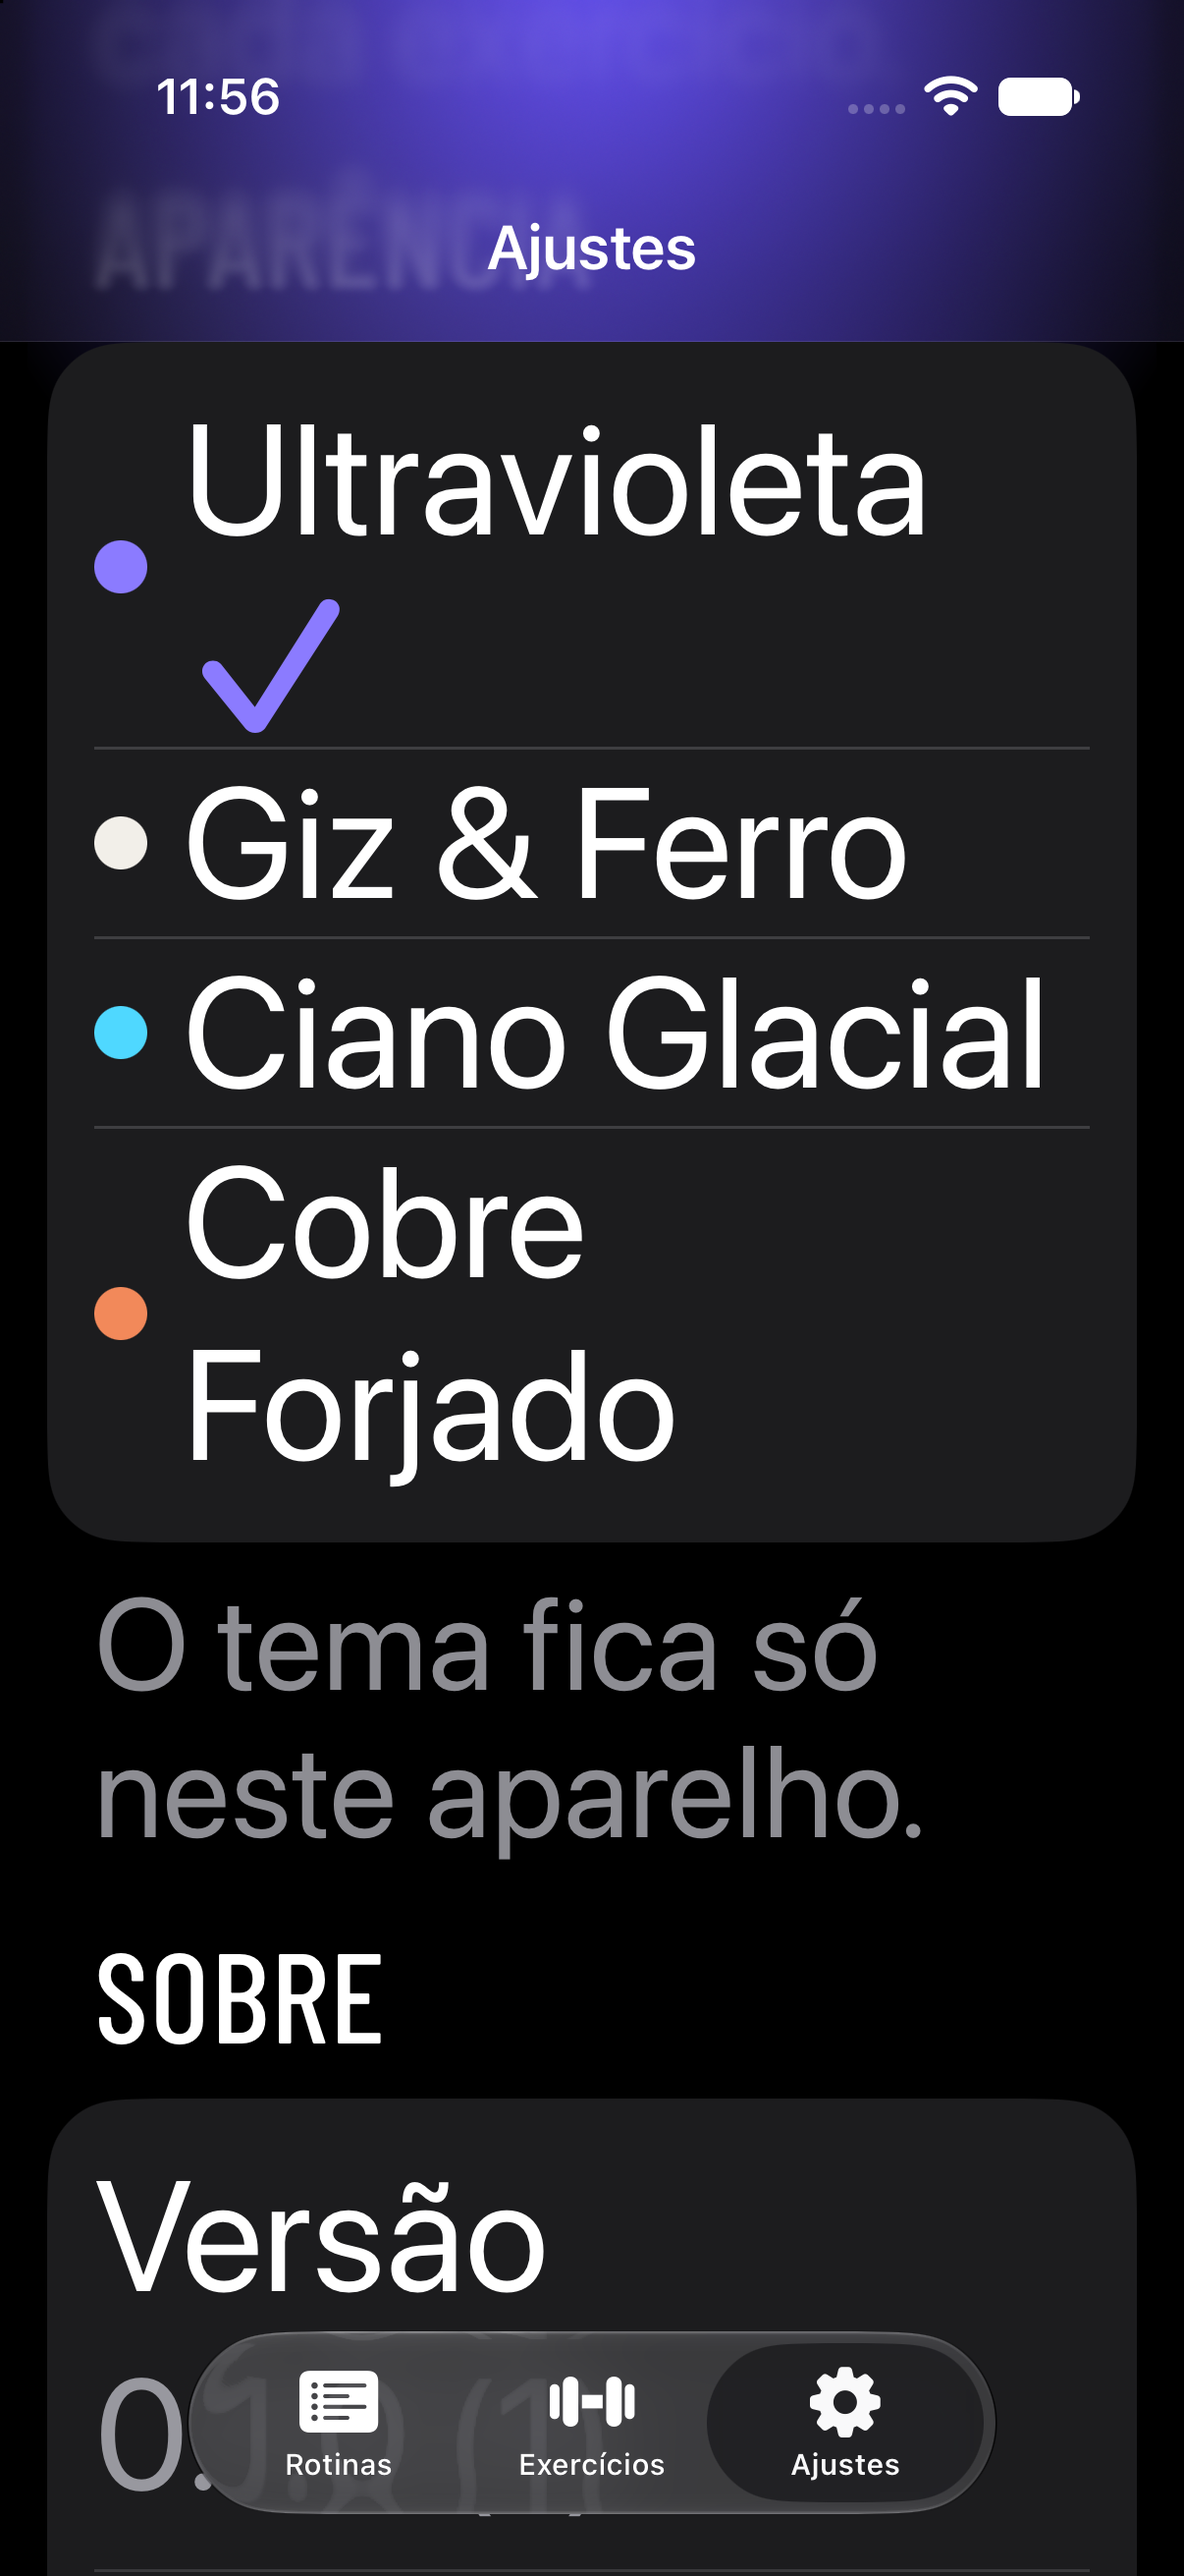
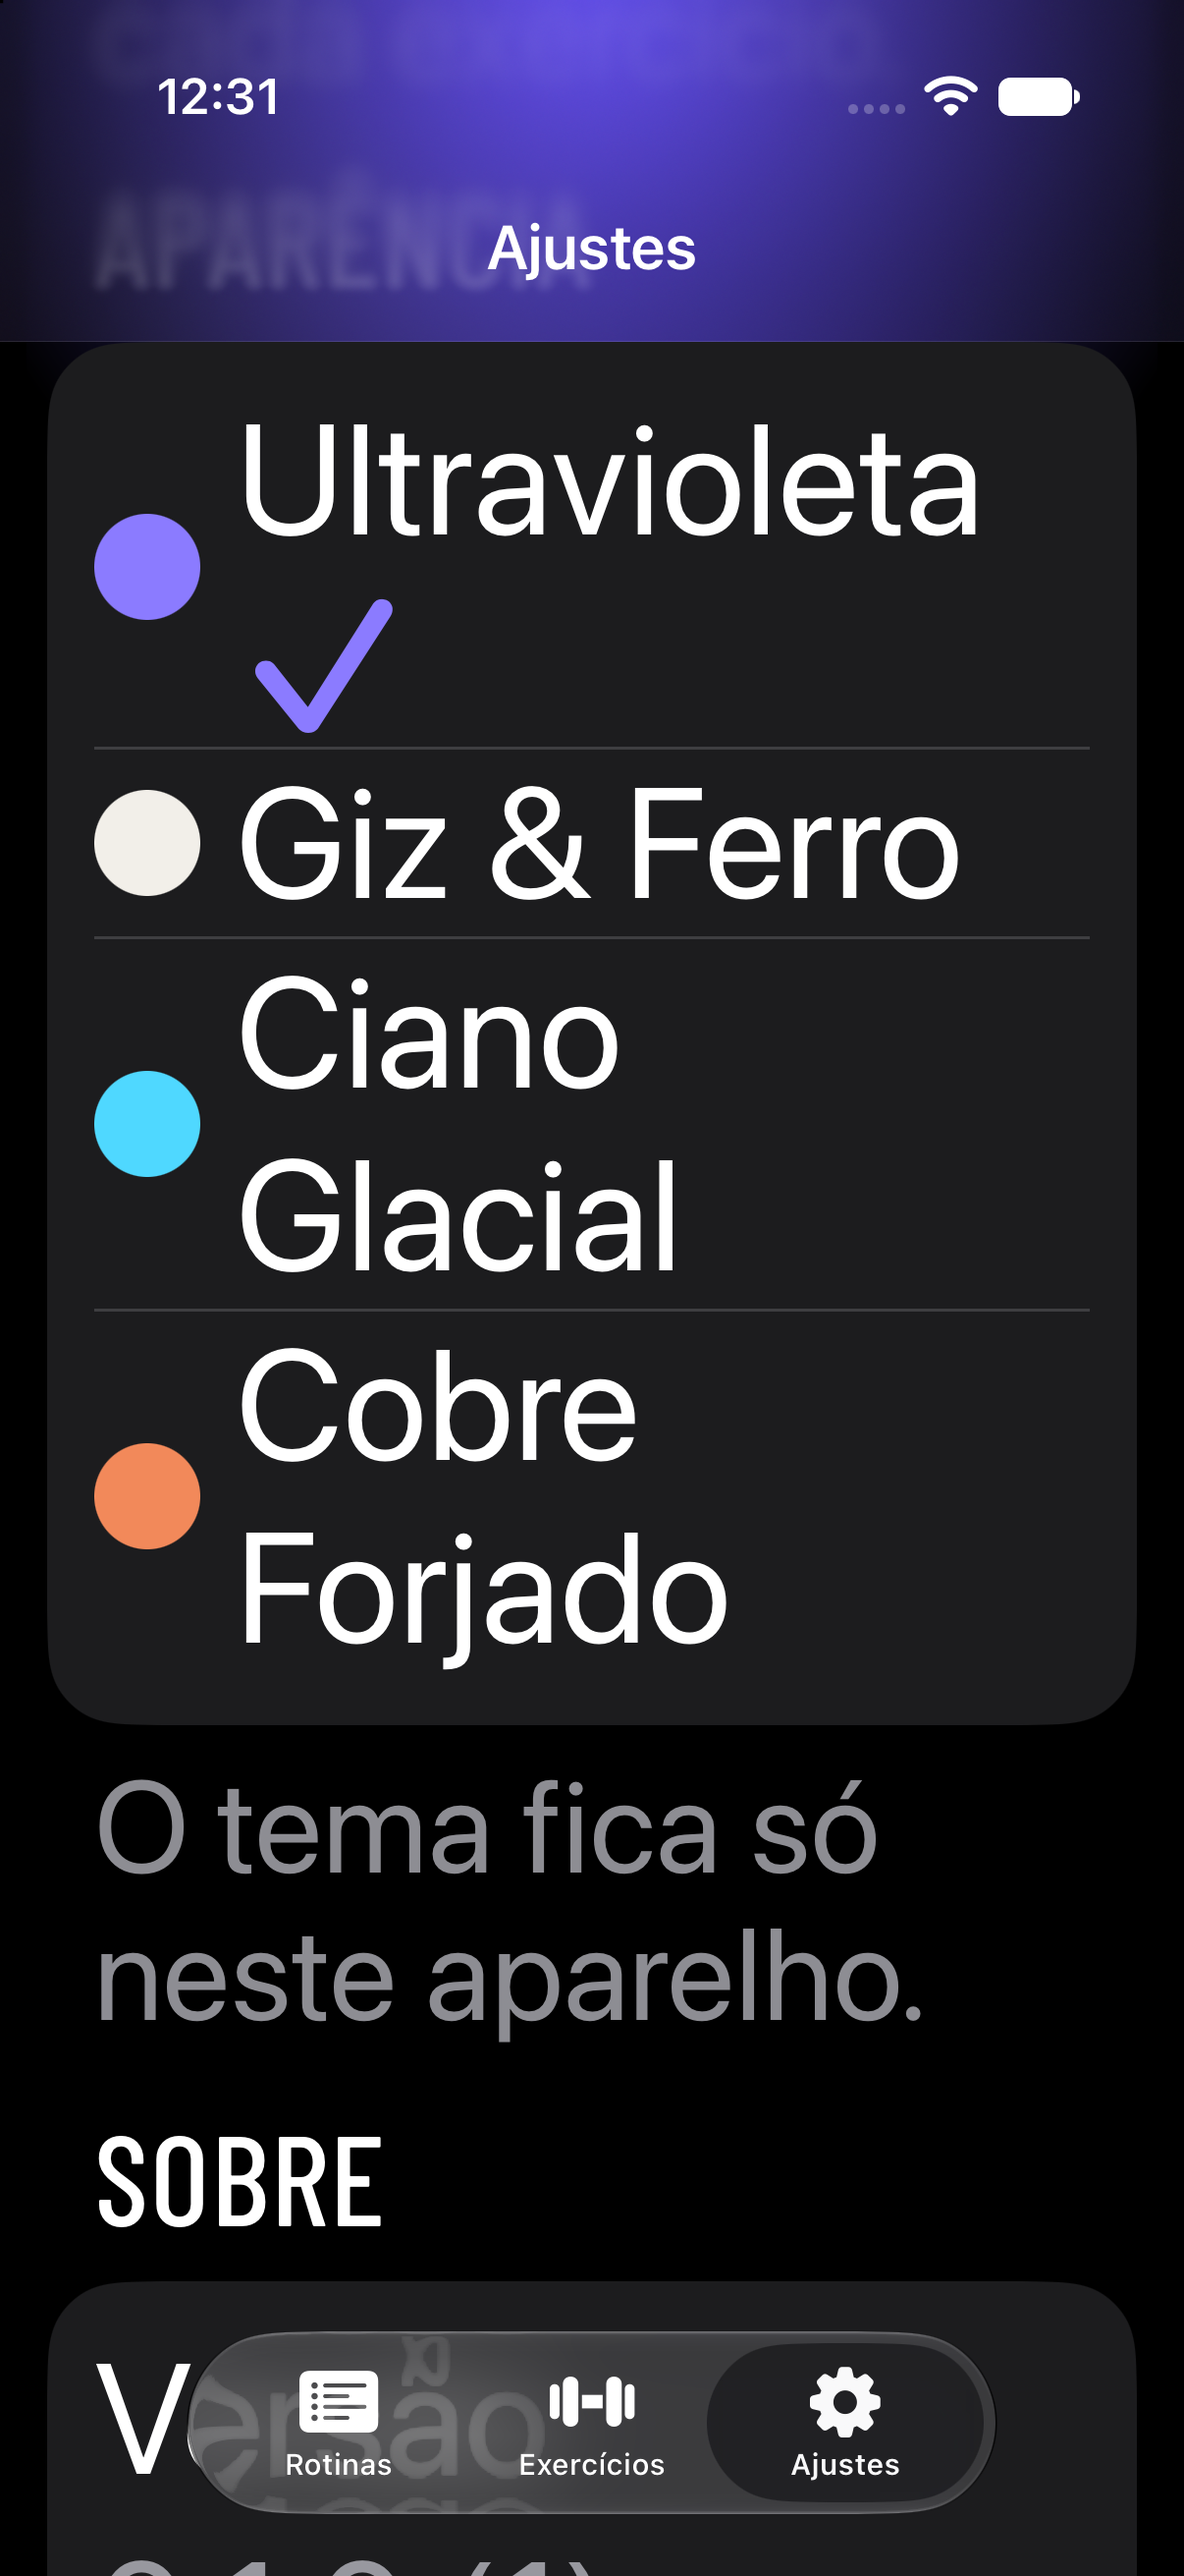
A amostra do tema, os links e os títulos das licenças

diff --git a/apple/HexGym/Settings/LicensesView.swift b/apple/HexGym/Settings/LicensesView.swift
@@ -13,6 +13,18 @@ import SwiftUI
 
 struct LicensesView: View {
   var body: some View {
+    ScrollViewReader { proxy in
+      list
+        .task {
+          // -HexGymSection opengym rola até os links do código, para o print em AX5 mostrar as setas.
+          guard SettingsLaunch.anchor == SettingsAnchor.opengym else { return }
+          try? await Task.sleep(for: .milliseconds(600))
+          proxy.scrollTo(SettingsAnchor.opengym, anchor: .top)
+        }
+    }
+  }
+
+  private var list: some View {
     List {
       Section {
         Text("HexGym is an unofficial fork of openGym, not made or endorsed by its author. Its code is public, under the same license.")
@@ -21,8 +33,9 @@ struct LicensesView: View {
         work: "openGym", license: "AGPL-3.0-or-later", holder: "© 2026 Duarte Santos",
         purpose: "The rules of the app: exercises, routines and progression.", text: .bundle("LICENSE-openGym")
       ) {
-        Link("openGym source code", destination: URL(string: "https://github.com/DuarteSantos8/openGym")!)
-        Link("HexGym source code", destination: URL(string: "https://github.com/lipedesign/HexGym")!)
+        SourceLink("openGym source code", destination: URL(string: "https://github.com/DuarteSantos8/openGym")!)
+          .id(SettingsAnchor.opengym)
+        SourceLink("HexGym source code", destination: URL(string: "https://github.com/lipedesign/HexGym")!)
       }
       LicenseSection(
         work: "Barlow Condensed", license: "SIL Open Font License 1.1", holder: "© 2017 The Barlow Project Authors",
@@ -54,23 +67,69 @@ struct LicenseText: Hashable {
     }
   }
 
-  // O texto com os parágrafos juntados: os arquivos quebram a linha em 72 colunas, e na largura do
-  // iPhone, com Dynamic Type, essas quebras cortariam as frases no meio. Uma linha em branco separa
-  // os parágrafos, e uma linha só de traços fica sozinha.
+  // Os parágrafos do arquivo (LicenseParagraphs), ou nenhum, se ele não abriu.
   func paragraphs() -> [String] {
     guard let url, let raw = try? String(contentsOf: url, encoding: .utf8) else { return [] }
+    return LicenseParagraphs.split(raw)
+  }
+}
+
+// O texto de uma licença em parágrafos: os arquivos quebram a linha em 72 colunas, e na largura do
+// iPhone, com Dynamic Type, essas quebras cortariam as frases no meio. As linhas de um bloco se
+// juntam num parágrafo; uma linha em branco ou só de traços separa os blocos; e o título de uma seção
+// (o "PREAMBLE" e o "TERMINATION" da OFL, o "TERMS AND CONDITIONS" da AGPL) fica num parágrafo
+// próprio, em vez de grudar no texto dele. Testado no SettingsRowsTests.
+enum LicenseParagraphs {
+  static func split(_ raw: String) -> [String] {
     var result: [String] = [], current: [String] = []
     func close() {
       if !current.isEmpty { result.append(current.joined(separator: " ")) }
       current = []
     }
     for line in raw.components(separatedBy: .newlines).map({ $0.trimmingCharacters(in: .whitespaces) }) {
-      if line.isEmpty { close(); continue }
-      if line.allSatisfy({ $0 == "-" || $0 == "=" }) { close(); continue }
+      if line.isEmpty || line.allSatisfy({ $0 == "-" || $0 == "=" }) { close(); continue }
+      if current.isEmpty, isHeading(line) {
+        result.append(line)
+        continue
+      }
       current.append(line)
     }
     close()
     return result
+  }
+
+  // Um título: a primeira linha de um bloco, com letras e nenhuma minúscula, curta e sem a vírgula ou
+  // o ponto de uma frase. Os avisos de garantia, também em maiúsculas, começam com linhas longas que
+  // continuam na seguinte, e ficam inteiros.
+  static func isHeading(_ line: String) -> Bool {
+    line.count <= 40 && line.contains(where: \.isLetter) && !line.contains(where: \.isLowercase)
+      && !line.hasSuffix(",") && !line.hasSuffix(".")
+  }
+}
+
+// Um link para fora do app, com a seta "arrow.up.right" à direita, no lugar e no cinza da seta de
+// navegação da List, para não parecer texto parado. O texto segue o tint branco da raiz.
+private struct SourceLink: View {
+  let title: LocalizedStringKey
+  let destination: URL
+
+  init(_ title: LocalizedStringKey, destination: URL) {
+    self.title = title
+    self.destination = destination
+  }
+
+  var body: some View {
+    Link(destination: destination) {
+      HStack(spacing: HexSpacing.s) {
+        Text(title)
+        Spacer(minLength: 0)
+        Image(systemName: "arrow.up.right")
+          .font(.body.weight(.semibold))
+          .imageScale(.small)
+          .foregroundStyle(.tertiary)
+          .accessibilityHidden(true)
+      }
+    }
   }
 }
 

diff --git a/apple/HexGym/Settings/SettingsView.swift b/apple/HexGym/Settings/SettingsView.swift
@@ -205,6 +205,8 @@ struct SettingsView: View {
 enum SettingsAnchor {
   static let workout = "workout", effort = "effort", week = "week", body = "body", appearance = "appearance"
   static let about = "about"
+  // Nas Licenças: os links do código do openGym e do HexGym.
+  static let opengym = "opengym"
 }
 
 // Os argumentos de início dos Ajustes, como os da galeria (GalleryLaunch), do domínio dos argumentos
@@ -213,7 +215,8 @@ enum SettingsAnchor {
 //   -HexGymSection appearance      rola até uma seção (SettingsAnchor); a galeria lê a mesma chave
 //   -HexGymSettingsScript demo     o roteiro do vídeo do PR: troca a unidade e o tema
 //   -HexGymSettingsScript flush    troca o corpo 3,8 s depois de abrir, para conferir o flush()
-//   -HexGymSettingsOpen licenses   abre as Licenças; musclemap abre o texto da licença do MuscleMap
+//   -HexGymSettingsOpen licenses   abre as Licenças; musclemap e barlow abrem o texto de uma licença
+//   -HexGymSection opengym         nas Licenças, rola até os links do código do openGym e do HexGym
 enum SettingsLaunch {
   private static var defaults: UserDefaults { .standard }
 
@@ -231,6 +234,9 @@ enum SettingsLaunch {
     case "musclemap":
       path.append(SettingsRoute.licenses)
       path.append(LicenseText(title: "MuscleMap", source: .bundle("LICENSE-MuscleMap")))
+    case "barlow":
+      path.append(SettingsRoute.licenses)
+      path.append(LicenseText(title: "Barlow Condensed", source: .url(HexFonts.licenseURL)))
     default:
       break
     }
@@ -288,6 +294,10 @@ private struct ThemeChoiceRow: View {
   @Environment(\.locale) private var locale
   @Environment(\.colorSchemeContrast) private var contrast
   @Environment(\.hexPalette) private var palette
+  // A amostra acompanha o texto no Dynamic Type, de 18 pt até 36 pt (no AX5, sem o teto, passaria de
+  // 50 pt e tomaria o lugar do nome).
+  @ScaledMetric(relativeTo: .body) private var scaledSwatch: CGFloat = 18
+  private var swatchSize: CGFloat { min(scaledSwatch, 36) }
 
   // O destaque daquele tema no contraste do aparelho.
   private var swatch: Color {
@@ -297,7 +307,7 @@ private struct ThemeChoiceRow: View {
   var body: some View {
     Button(action: select) {
       HStack(spacing: HexSpacing.s) {
-        Circle().fill(swatch).frame(width: 18, height: 18)
+        Circle().fill(swatch).frame(width: swatchSize, height: swatchSize)
         // A marca ao lado do nome quando os dois cabem numa linha; senão (no AX5), embaixo dele, para o
         // nome não quebrar no meio da palavra. Só na linha escolhida: nas outras, o espaço vai para o nome.
         ViewThatFits(in: .horizontal) {

diff --git a/apple/HexGymTests/SettingsRowsTests.swift b/apple/HexGymTests/SettingsRowsTests.swift
@@ -1,6 +1,8 @@
 // Os testes dos Ajustes sem tela (Task 6 do plano da fase 2): as opções do descanso, o rótulo dele
 // e o que o VoiceOver diz, a troca de unidade por uma ação do motor e o tema, que fica no ThemeModel
 // e não gera ação nenhuma (seção 8.12). Os rótulos são conferidos em português do Brasil e em inglês.
+// O teste dos rótulos confere também os parágrafos dos textos das licenças, que a linha "Licenças"
+// abre (LicenseParagraphs), nos três arquivos que vão no app.
 //
 // O alvo roda dentro do app (TEST_HOST) e lê os textos do catálogo do app.
 //
@@ -65,6 +67,19 @@ import Testing
     #expect(portuguese.effort(.rir) == "RIR"); #expect(english.effort(.rpe) == "RPE")
     #expect(portuguese.weekStart(.sunday) == "Domingo"); #expect(english.weekStart(.monday) == "Monday")
     #expect(portuguese.body(.female) == "Feminino"); #expect(english.body(.male) == "Male")
+    // A linha "Licenças" do Sobre abre os textos das licenças, em parágrafos (LicenseParagraphs): o
+    // título de uma seção fica sozinho, e um aviso de garantia em maiúsculas fica inteiro.
+    #expect(LicenseParagraphs.split("PREAMBLE\nThe goals of\nthe OFL.\n\nPERMISSION & CONDITIONS\nPermission is\ngranted.\n")
+      == ["PREAMBLE", "The goals of the OFL.", "PERMISSION & CONDITIONS", "Permission is granted."])
+    #expect(LicenseParagraphs.split("THE SOFTWARE IS PROVIDED \"AS IS\", WITHOUT WARRANTY OF ANY KIND, EXPRESS OR\nIMPLIED.\n")
+      == ["THE SOFTWARE IS PROVIDED \"AS IS\", WITHOUT WARRANTY OF ANY KIND, EXPRESS OR IMPLIED."])
+    let ofl = LicenseText(title: "Barlow Condensed", source: .url(HexFonts.licenseURL)).paragraphs()
+    #expect(["PREAMBLE", "DEFINITIONS", "PERMISSION & CONDITIONS", "TERMINATION", "DISCLAIMER"].allSatisfy(ofl.contains))
+    let mit = LicenseText(title: "MuscleMap", source: .bundle("LICENSE-MuscleMap")).paragraphs()
+    #expect(mit.count == 5); #expect(mit.first == "MIT License"); #expect(mit.last?.hasPrefix("THE SOFTWARE IS PROVIDED") == true)
+    let agpl = LicenseText(title: "openGym", source: .bundle("LICENSE-openGym")).paragraphs()
+    #expect(Array(agpl.prefix(2)) == ["GNU AFFERO GENERAL PUBLIC LICENSE", "Version 3, 19 November 2007"])
+    #expect(agpl.contains("TERMS AND CONDITIONS")); #expect(agpl.contains("END OF TERMS AND CONDITIONS"))
   }
 
   @Test func changingTheThemeMakesNoEngineAction() {
